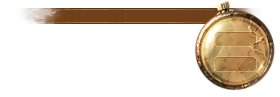
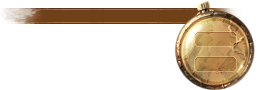
Edited clock for increase the reload area

Changed region(s): [[0.0, 0.0, 0.9846, 1.0]]

diff --git a/assets/less/theme.less b/assets/less/theme.less
@@ -1147,7 +1147,7 @@ div.game-menu-area {
       }
 
       &.clock {
-        position: absolute; background: url("../img/background/clock.png"); width: 280px; height: 97px;
+        position: absolute; background: url("../img/background/clock.png"); width: 260px; height: 90px;
         top: -137px; right: 0px;
         &>li { display: block; position: absolute; }
         &>li:nth-child(1) { font-size: 1rem; color: @myhordes-smalltext; text-align: right; height: 12px; top: 9px; left: 0; right: 75px; font-variant: small-caps }
@@ -1161,8 +1161,8 @@ div.game-menu-area {
           left: 0;
           right: 85px;
         }
-        &>li:nth-child(3) { font-size: 1rem; text-align: center; top: 32px; left: 215px; right: 25px; cursor: help; }
-        &>li:nth-child(4) { color: #5e0000; font-size: 1rem; text-align: center; font-weight: bold; top: 58px; left: 215px; right: 25px; cursor: help; }
+        &>li:nth-child(3) { font-size: 1rem; text-align: center; top: 32px; left: 195px; right: 25px; cursor: help; }
+        &>li:nth-child(4) { color: #5e0000; font-size: 1rem; text-align: center; font-weight: bold; top: 58px; left: 195px; right: 25px; cursor: help; }
         .hardcore {
           color: lighten(#7c2727, 10%);
           font-variant: small-caps;
